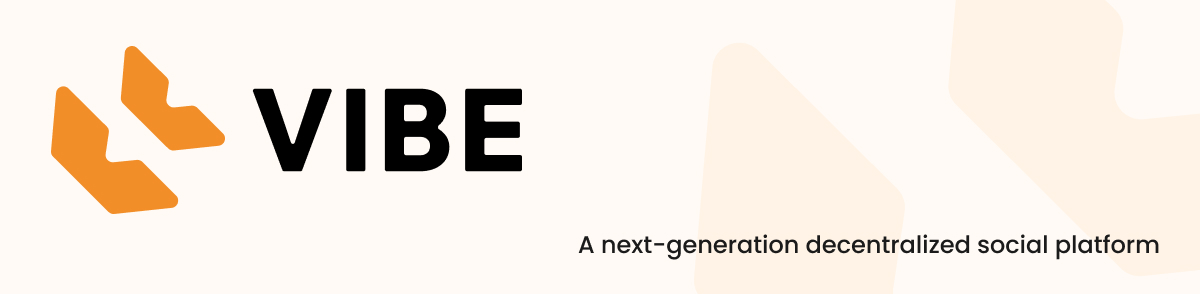
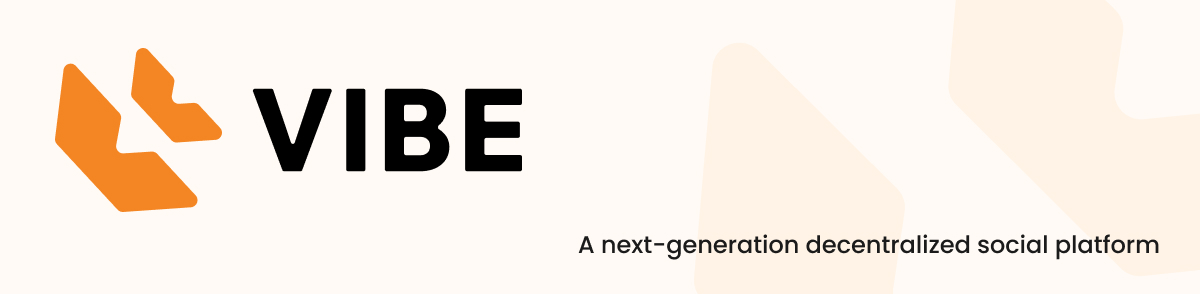
update image

Changed region(s): [[0.0308, 0.1531, 0.185, 0.7347]]

diff --git a/web-app/socials-web3/src/components/ui/IconSvg.tsx b/web-app/socials-web3/src/components/ui/IconSvg.tsx
@@ -5,34 +5,33 @@ export const IconSvg = () => Fragment;
 IconSvg.Logo = () => {
   return (
     <svg
-      width="113"
       height="32"
-      viewBox="0 0 113 32"
+      viewBox="0 0 527 186"
       fill="none"
       xmlns="http://www.w3.org/2000/svg"
     >
       <path
-        d="M22.5218 19.414L29.9 18.6291C30.9271 18.5198 31.3688 17.2748 30.6384 16.5478L26.3725 12.3019C26.1116 12.0422 25.7472 11.9129 25.38 11.9499L22.5825 12.2311C21.786 12.3112 21.1264 11.624 21.2431 10.8357L21.6226 8.27244C21.6793 7.88964 21.5507 7.50272 21.2758 7.22911L16.3837 2.36002C15.645 1.62478 14.3799 2.08395 14.2901 3.11989L13.6417 10.603C13.6105 10.9627 13.7406 11.3177 13.9971 11.5731L21.5221 19.0627C21.7848 19.3242 22.1523 19.4533 22.5218 19.414Z"
-        fill="#F28E28"
+        d="M127.062 104.407L160.219 102.094C165.417 101.732 167.88 95.4667 164.335 91.6214L146.112 71.8529C144.845 70.479 143.033 69.7508 141.175 69.8695L128.987 70.6478C124.957 70.9052 121.761 67.2762 122.499 63.2786L124.549 52.1647C124.907 50.2235 124.332 48.2262 122.998 46.7789L102.003 24.0034C98.4177 20.1143 91.9532 22.216 91.3048 27.4814L87.1461 61.251C86.9209 63.0794 87.5096 64.9145 88.7545 66.265L122.089 102.426C123.364 103.809 125.192 104.537 127.062 104.407Z"
+        fill="#F48623"
       />
       <path
-        d="M12.5789 29.9931L22.0926 28.9809C23.1197 28.8717 23.5615 27.6266 22.8311 26.8996L17.2463 21.3411C16.9854 21.0814 16.6209 20.9521 16.2537 20.989L12.4519 21.3712C11.6554 21.4513 10.9958 20.7641 11.1125 19.9758L11.6341 16.4533C11.6907 16.0705 11.5621 15.6836 11.2872 15.41L4.93424 9.08687C4.19553 8.35163 2.93044 8.8108 2.84068 9.84674L2.00455 19.4957C1.97338 19.8554 2.10347 20.2105 2.35998 20.4658L11.5792 29.6417C11.8419 29.9032 12.2094 30.0324 12.5789 29.9931Z"
-        fill="#F28E28"
+        d="M80.3237 164.985L138.932 160.897C144.13 160.535 146.593 154.27 143.048 150.424L109.754 114.307C108.487 112.933 106.674 112.205 104.816 112.323L80.6619 113.866C76.6311 114.123 73.4358 110.494 74.1733 106.497L78.3367 83.9287C78.6948 81.9875 78.1195 79.9902 76.7854 78.5429L39.096 37.6575C35.511 33.7685 29.0466 35.8702 28.3981 41.1355L21.0471 100.827C20.822 102.655 21.4107 104.49 22.6555 105.841L75.3504 163.004C76.6255 164.387 78.4537 165.115 80.3237 164.985Z"
+        fill="#F48623"
       />
       <path
-        d="M113 27.1613H97.6387V4.83789H113V9.24013H102.821V13.736H112.438V18.1383H102.821V22.759H113V27.1613Z"
+        d="M527 139.5C527 140.605 526.105 141.5 525 141.5H462.295C461.191 141.5 460.295 140.605 460.295 139.5V46.5C460.295 45.3954 461.191 44.5 462.295 44.5H525C526.105 44.5 527 45.3954 527 46.5V61.6287C527 62.7332 526.105 63.6287 525 63.6287H484.801C483.697 63.6287 482.801 64.5241 482.801 65.6287V81.1643C482.801 82.2689 483.697 83.1643 484.801 83.1643H522.56C523.664 83.1643 524.56 84.0598 524.56 85.1643V100.293C524.56 101.398 523.664 102.293 522.56 102.293H484.801C483.697 102.293 482.801 103.188 482.801 104.293V120.371C482.801 121.476 483.697 122.371 484.801 122.371H525C526.105 122.371 527 123.267 527 124.371V139.5Z"
         fill="black"
       />
       <path
-        d="M75.9277 27.1613V4.83789H85.4503C86.8657 4.83789 88.0937 5.07726 89.1344 5.55599C90.196 6.03472 91.0181 6.71118 91.6009 7.58538C92.1837 8.43877 92.4751 9.44827 92.4751 10.6139C92.4751 11.6546 92.215 12.5808 91.6946 13.3926C91.1951 14.2043 90.4874 14.8496 89.5715 15.3283C90.7371 15.8071 91.653 16.5043 92.319 17.4202C93.0059 18.3152 93.3493 19.3767 93.3493 20.6048C93.3493 21.9161 93.0163 23.0713 92.3503 24.0703C91.6842 25.0486 90.758 25.8083 89.5715 26.3495C88.3851 26.8907 87.001 27.1613 85.4191 27.1613H75.9277ZM85.0756 9.17768H81.1105V13.6424H85.0756C85.7625 13.6424 86.2933 13.4342 86.6679 13.0179C87.0634 12.6016 87.2611 12.0292 87.2611 11.3007C87.2611 10.6347 87.0634 10.1143 86.6679 9.73967C86.2933 9.36501 85.7625 9.17768 85.0756 9.17768ZM81.1105 22.8215H85.4503C86.2829 22.8215 86.9385 22.6029 87.4173 22.1658C87.896 21.7079 88.1353 21.0731 88.1353 20.2613C88.1353 19.512 87.896 18.9292 87.4173 18.5129C86.9385 18.0758 86.2829 17.8573 85.4503 17.8573H81.1105V22.8215Z"
+        d="M368.016 141.5C366.912 141.5 366.016 140.605 366.016 139.5V46.5C366.016 45.3954 366.912 44.5 368.016 44.5H407.368C413.514 44.5 418.847 45.5401 423.366 47.6203C427.976 49.7005 431.546 52.6399 434.077 56.4385C436.607 60.1466 437.873 64.5331 437.873 69.5979C437.873 74.12 436.743 78.1448 434.483 81.672C433.027 84.0398 431.164 86.0815 428.893 87.7973C427.537 88.8218 427.646 91.119 429.117 91.9704C432.389 93.8642 435.082 96.2649 437.195 99.1727C440.178 103.062 441.669 107.674 441.669 113.01C441.669 118.708 440.223 123.728 437.331 128.069C434.438 132.32 430.416 135.621 425.264 137.973C420.112 140.324 414.101 141.5 407.232 141.5H368.016ZM405.741 63.3573H390.522C389.418 63.3573 388.522 64.2528 388.522 65.3573V80.7573C388.522 81.8619 389.418 82.7573 390.522 82.7573H405.741C408.723 82.7573 411.028 81.8529 412.655 80.0441C414.373 78.2352 415.231 75.748 415.231 72.5825C415.231 69.6883 414.373 67.4273 412.655 65.7993C411.028 64.1713 408.723 63.3573 405.741 63.3573ZM388.522 120.643C388.522 121.747 389.418 122.643 390.522 122.643H407.368C410.983 122.643 413.83 121.693 415.909 119.794C417.988 117.804 419.027 115.045 419.027 111.518C419.027 108.262 417.988 105.73 415.909 103.921C413.83 102.022 410.983 101.072 407.368 101.072H390.522C389.418 101.072 388.522 101.967 388.522 103.072V120.643Z"
         fill="black"
       />
       <path
-        d="M70.6505 27.1613H65.4678V4.83789H70.6505V27.1613Z"
+        d="M343.1 139.5C343.1 140.605 342.205 141.5 341.1 141.5H322.594C321.489 141.5 320.594 140.605 320.594 139.5V46.5C320.594 45.3954 321.489 44.5 322.594 44.5H341.1C342.205 44.5 343.1 45.3954 343.1 46.5V139.5Z"
         fill="black"
       />
       <path
-        d="M53.4565 27.1613H48.3361L40 4.83789H45.6199L51.0524 20.917L56.3913 4.83789H61.7926L53.4565 27.1613Z"
+        d="M268.92 140.199C268.628 140.981 267.881 141.5 267.046 141.5H247.588C246.753 141.5 246.006 140.981 245.714 140.199L211.007 47.1993C210.52 45.8923 211.486 44.5 212.881 44.5H232.968C233.826 44.5 234.589 45.0473 234.863 45.8602L256.083 108.706C256.697 110.525 259.272 110.518 259.876 108.696L280.724 45.8701C280.995 45.0521 281.76 44.5 282.622 44.5H301.753C303.148 44.5 304.114 45.8923 303.626 47.1993L268.92 140.199Z"
         fill="black"
       />
     </svg>
